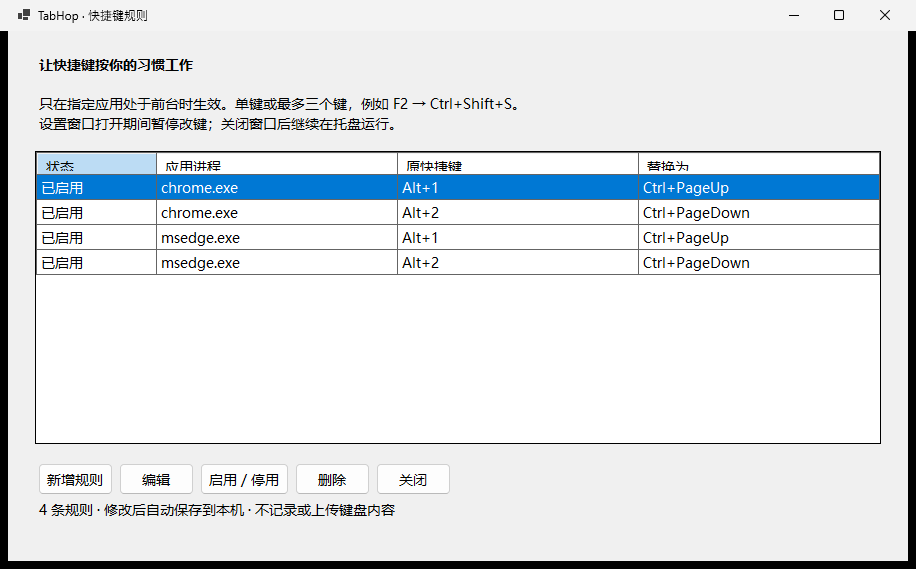
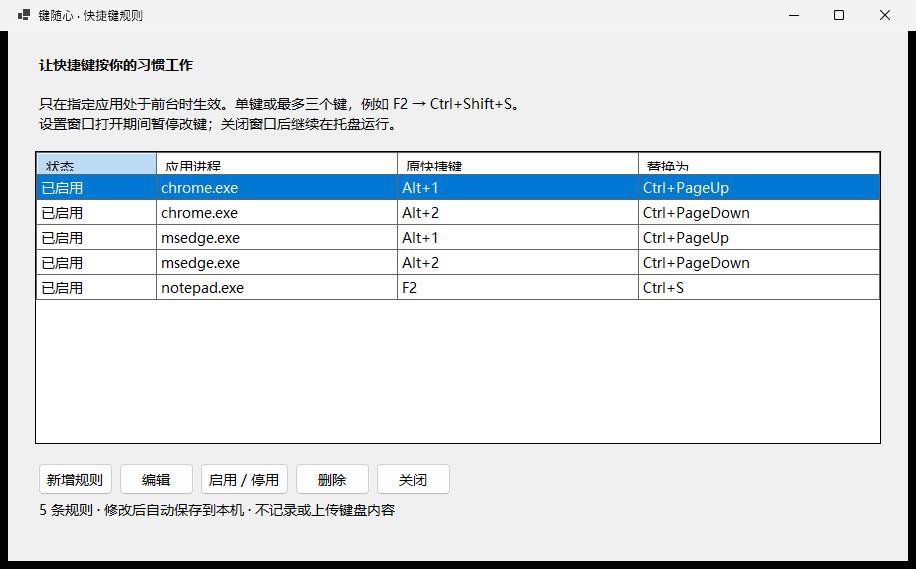
Introduce 键随心 branding and direct shortcut recording guide

diff --git a/QUICKSTART.md b/QUICKSTART.md
@@ -1,17 +1,17 @@
-# TabHop 0.2.0 测试版：图解使用教程
+# 键随心 0.2.0-beta.2 测试版：图解使用教程
 
-下面三张图来自软件在 Windows 上实际运行的界面，依次展示默认规则、新增规则、保存后的规则列表。
+下面的截图来自软件在 Windows 上实际运行的界面，展示规则列表、新增规则和按键录入过程。列表中的记事本规则是教程添加的示例，首次安装只有 Chrome / Edge 四条默认规则。
 
 ## 1. 下载、安装并打开
 
-普通 Intel / AMD 电脑下载 [x64 安装包](https://github.com/sunholdshen/tabhop/releases/download/v0.2.0-beta.1/TabHop-0.2.0-beta.1-win-x64-Setup.exe)；Windows ARM 电脑下载 [ARM64 安装包](https://github.com/sunholdshen/tabhop/releases/download/v0.2.0-beta.1/TabHop-0.2.0-beta.1-win-arm64-Setup.exe)。不确定时，到 Windows“设置 → 系统 → 关于”查看“系统类型”。下载 Setup.exe，不要下载 Source code 压缩包。
+普通 Intel / AMD 电脑下载 [x64 安装包](https://github.com/sunholdshen/tabhop/releases/download/v0.2.0-beta.2/TabHop-0.2.0-beta.2-win-x64-Setup.exe)；Windows ARM 电脑下载 [ARM64 安装包](https://github.com/sunholdshen/tabhop/releases/download/v0.2.0-beta.2/TabHop-0.2.0-beta.2-win-arm64-Setup.exe)。不确定时，到 Windows“设置 → 系统 → 关于”查看“系统类型”。下载 Setup.exe，不要下载 Source code 压缩包。
 
-运行安装包，按提示安装，完成后启动 TabHop。已有 0.1 版可直接覆盖安装。
+运行安装包，按提示安装，完成后启动键随心。已有 0.1 版可直接覆盖安装。
 当前测试版未签名，可能出现“未知发布者”。确认来自本项目的官方 Release 后，如出现 SmartScreen 提示，可以点“更多信息 → 仍要运行”。不要关闭 Windows 安全防护。
 
 ## 2. 看懂默认规则
 
-![默认规则](images/default-rules.png)
+![示例规则列表](images/default-rules.png)
 
 一行规则有四个部分：**状态、应用进程、原快捷键、替换为**。
 
@@ -30,13 +30,17 @@
 
 1. 点击“新增规则”。
 2. “应用进程”填写 `notepad.exe`。也可以点“选择程序”找到对应 EXE；程序只保存文件名。
-3. “原快捷键”下拉框选 `F2`，四个修饰键都不勾选。
-4. “替换为”勾选 `Ctrl`，下拉框选 `S`。
+3. 点击“原快捷键”下的“点击录入”，按下 `F2` 后松开。
+4. 点击“替换为”下的“点击录入”，按住 `Ctrl`、按下 `S`，然后松开所有键。
 5. 保持“启用此规则”勾选，点击“保存”。
 
 这样，F2 只在记事本处于前台时变成 Ctrl+S。它不会让其他应用的 F2 一起改变。若你的应用进程名不是 notepad.exe，请在任务管理器“详细信息”中确认实际 EXE 名称。
 
-如果想设置三键组合，例如 Ctrl+Shift+S，勾选 Ctrl 和 Shift，再在下拉框中选择 S。每侧最多两个修饰键加一个普通按键。
+如果想设置三键组合，例如 Ctrl+Shift+S，点击录入后直接按下该组合，再松开所有键。每侧最多两个修饰键加一个普通按键。
+
+![正在录入快捷键](images/recording-shortcut.png)
+
+录入时会显示正在识别的组合，松开后完成；Enter、Tab、Esc 可以作为快捷键录入，不会在录入期间触发对话框保存、跳转或取消。按错可点“取消录入”，原值保留；切换窗口也会取消。超出支持范围会提示重新录入。系统安全组合键不保证可拦截，请不要用 Ctrl+Alt+Delete 或 Win+L 测试。
 
 ## 4. 保存后关闭设置，再测试
 
@@ -61,7 +65,7 @@
 
 **先指定应用，再定义替换。** 同一个按键在不同软件里用途不同，按前台应用匹配可以减少互相干扰。匹配使用进程文件名，相同 EXE 文件名的不同安装会使用同一组规则。
 
-**来源与目标结构一致。** 两边都用修饰键勾选框和普通按键下拉框，不需要学习脚本，也能看清到底配置了哪几个键。首版专注单次快捷键替换，不加入宏和多步骤动作。
+**来源与目标结构一致。** 两边都直接按键录入，并显示识别到的组合，不需要对照下拉框寻找按键。松开所有键才确认，避免只按下修饰键就提前录入。首版专注单次快捷键替换，不加入宏和多步骤动作。
 
 **配置时暂停，使用时驻留托盘。** 避免编辑规则时触发已有映射；平时不占任务栏。每条规则能单独停用，托盘还能一次暂停全部改键。
 
@@ -69,7 +73,7 @@
 
 ## 测试时需要注意
 
-目标应用必须支持目标快捷键。普通权限运行的 TabHop 不保证能控制管理员应用；部分系统保留快捷键也不能替换。请先用 F2、Alt+数字等组合测试，单个字母改键会覆盖目标应用中的正常打字。
+目标应用必须支持目标快捷键。普通权限运行的键随心 不保证能控制管理员应用；部分系统保留快捷键也不能替换。请先用 F2、Alt+数字等组合测试，单个字母改键会覆盖目标应用中的正常打字。
 
 如果没有反应，依次检查：设置窗口是否关闭、规则是否启用、托盘是否暂停、前台应用进程名是否正确、目标快捷键在该应用中是否有效。
 

diff --git a/README.md b/README.md
@@ -1,5 +1,6 @@
-# TabHop
+# 键随心
 
+原名 TabHop，按应用自定义快捷键。
 **为不同 Windows 应用配置自己的快捷键。免费使用，源码不公开。**
 
 把指定应用中的单键或组合键替换为另一个快捷键。例如，在记事本中用 F2 保存；在 Chrome / Edge 中用 Alt+1、Alt+2 切换标签页。带托盘、暂停和可选的开机启动。
@@ -8,25 +9,29 @@
 
 | 电脑类型 | 下载 |
 | --- | --- |
-| 普通 Intel / AMD 电脑 | [Windows x64 安装包](https://github.com/sunholdshen/tabhop/releases/download/v0.2.0-beta.1/TabHop-0.2.0-beta.1-win-x64-Setup.exe) |
-| Windows ARM 电脑 | [Windows ARM64 安装包](https://github.com/sunholdshen/tabhop/releases/download/v0.2.0-beta.1/TabHop-0.2.0-beta.1-win-arm64-Setup.exe) |
+| 普通 Intel / AMD 电脑 | [Windows x64 安装包](https://github.com/sunholdshen/tabhop/releases/download/v0.2.0-beta.2/TabHop-0.2.0-beta.2-win-x64-Setup.exe) |
+| Windows ARM 电脑 | [Windows ARM64 安装包](https://github.com/sunholdshen/tabhop/releases/download/v0.2.0-beta.2/TabHop-0.2.0-beta.2-win-arm64-Setup.exe) |
 
-[版本说明与 SHA-256 校验文件](https://github.com/sunholdshen/tabhop/releases/tag/v0.2.0-beta.1)
+[版本说明与 SHA-256 校验文件](https://github.com/sunholdshen/tabhop/releases/tag/v0.2.0-beta.2)
 
 支持 Windows 10 22H2 / Windows 11。安装包包含运行环境，无需另装 .NET，无需管理员权限。可以覆盖安装旧版，已有规则会保留。
 
-这是 **v0.2.0-beta.1 测试版**，尚未代码签名，Windows 可能提示“未知发布者”。请核对本仓库地址与校验值；如出现 SmartScreen“Windows 已保护你的电脑”，确认来源后选择“更多信息 → 仍要运行”。如果被组织策略阻止，请联系设备管理员，不要关闭安全防护。Microsoft Store 版本尚未上架。
+这是 **v0.2.0-beta.2 测试版**，尚未代码签名，Windows 可能提示“未知发布者”。请核对本仓库地址与校验值；如出现 SmartScreen“Windows 已保护你的电脑”，确认来源后选择“更多信息 → 仍要运行”。如果被组织策略阻止，请联系设备管理员，不要关闭安全防护。Microsoft Store 版本尚未上架。
 
 ## 快速开始
 
-1. 安装并启动 TabHop，默认已有 Chrome / Edge 的四条切标签规则。
-2. 点“新增规则”，填应用进程名，选择“原快捷键”和“替换为”，然后保存。
+1. 安装并启动键随心，默认已有 Chrome / Edge 的四条切标签规则。
+2. 点“新增规则”，填应用进程名，分别点击“原快捷键”和“替换为”，直接按键录入，然后保存。
 3. **关闭设置窗口后规则才开始生效**，程序继续留在托盘。
 4. 双击托盘图标重新打开设置；右键可暂停全部改键、开启登录自启动或退出。
 
-![TabHop 默认快捷键设置](images/default-rules.png)
+![键随心快捷键设置](images/default-rules.png)
 
 [图解教程](QUICKSTART.md) · [完整使用说明](USER-GUIDE.md) · [更新记录](CHANGELOG.md) · [反馈问题](https://github.com/sunholdshen/tabhop/issues/new/choose)
+
+## 新版变化
+
+快捷键改为直接按键录入：点击区域，按下组合键，松开后自动填入。按错可取消重录，切换窗口自动取消。应用更名为“键随心”，旧规则和开机启动选择保留；下载地址和内部程序文件名继续沿用 TabHop，以保持升级兼容。
 
 ## 支持范围
 
@@ -38,12 +43,12 @@
 
 ## 免费使用，源码不公开
 
-允许个人和商业用途免费使用官方程序。TabHop 采用[专有软件许可](LICENSE)，此公开仓库仅用于产品介绍、下载和反馈。
+允许个人和商业用途免费使用官方程序。键随心采用[专有软件许可](LICENSE)，此公开仓库仅用于产品介绍、下载和反馈。
 Release 页面自动生成的 “Source code” 压缩包只包含本仓库的公开文档与图片；请下载上面的 `.exe` 安装包。
 第三方组件的许可保留在 [THIRD-PARTY-NOTICES.txt](THIRD-PARTY-NOTICES.txt)。
 
 ## 隐私
 
-TabHop 离线运行，不记录或上传键盘内容，不含遥测、广告或自动更新。只在本机保存改键规则。[隐私说明](PRIVACY.md)
+键随心离线运行，不记录或上传键盘内容，不含遥测、广告或自动更新。只在本机保存改键规则。[隐私说明](PRIVACY.md)
 
 Copyright (c) 2026 sunholdshen. All rights reserved.

diff --git a/USER-GUIDE.md b/USER-GUIDE.md
@@ -1,4 +1,4 @@
-# TabHop 0.2.0-beta.1 使用说明
+# 键随心 0.2.0-beta.2（原 TabHop） 使用说明
 
 免费、闭源的 Windows 应用快捷键工具。支持 Windows 10 22H2 / Windows 11，x64 和 ARM64。
 
@@ -12,9 +12,11 @@
 
 1. 点“新增规则”。
 2. 填写应用进程文件名，例如 notepad.exe；也可点“选择程序”选择 EXE，只保存其文件名。
-3. 在“原快捷键”选择普通按键和修饰键。例如只选 F2。
-4. 在“替换为”选择目标按键。例如勾选 Ctrl，再选 S。
+3. 点击“原快捷键”的录入区域，按下 F2 并松开，自动识别。
+4. 点击“替换为”的录入区域，按下 Ctrl+S 并松开，自动识别。
 5. 点“保存”，关闭设置窗口。在记事本内按 F2 应触发保存。
+
+录入时按键不会触发对话框的保存、取消或焦点跳转。按错可点“取消录入”，保留原值；切换到其他窗口也会取消。系统安全组合键无法保证拦截，不要用 Ctrl+Alt+Delete 或 Win+L 测试。
 
 支持单个普通按键，或一个普通按键加最多两个 Ctrl / Alt / Shift / Win 修饰键。例：F2、Ctrl+K、Ctrl+Shift+S。不是任意三个普通字母同时按下，也不包含连续宏、鼠标或多步骤动作。
 当前支持字母、主键盘数字、F1–F24、方向键、常用编辑/导航键和标点键；不包含小键盘、媒体键、纯修饰键和锁定键。标点按键名称以标准键盘标记显示，具体输出受当前键盘布局影响。
@@ -46,4 +48,4 @@ EXE 版：`%LOCALAPPDATA%\TabHop\rules.json`。
 
 ## 下载与商店版状态
 
-当前请从 [GitHub Releases](https://github.com/sunholdshen/tabhop/releases/tag/v0.2.0-beta.1) 下载 EXE 测试版。此版本尚未签名，可能显示未知发布者。Microsoft Store 版本尚未上架。
+当前从 [GitHub Releases](https://github.com/sunholdshen/tabhop/releases/tag/v0.2.0-beta.2) 下载 EXE 测试版。尚未签名，可能显示未知发布者。Microsoft Store 版本尚未上架。

diff --git a/CHANGELOG.md b/CHANGELOG.md
@@ -1,5 +1,12 @@
 # 更新记录
 
+## 0.2.0-beta.2 — 2026-10-18
+
+- 软件更名为“键随心”，更新窗口、托盘、开始菜单、桌面快捷方式和安装程序显示名称。
+- 原快捷键和目标快捷键改为直接按键录入，按下并松开后自动识别。
+- 增加取消录入、切换窗口取消、非法组合提示、按键重复与释放处理。
+- 保留旧配置目录、程序身份和下载仓库，支持从 TabHop 覆盖升级。
+
 ## 0.2.0-beta.1 — 2026-10-18
 
 - 新增按应用配置快捷键：单键或最多三个键的组合替换，最多两个修饰键加一个普通按键。
